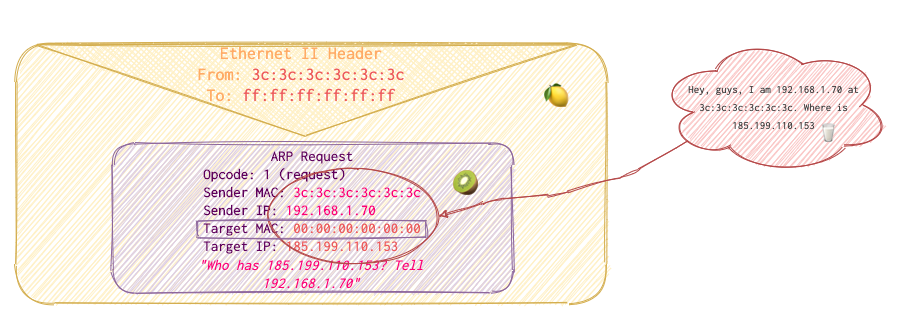
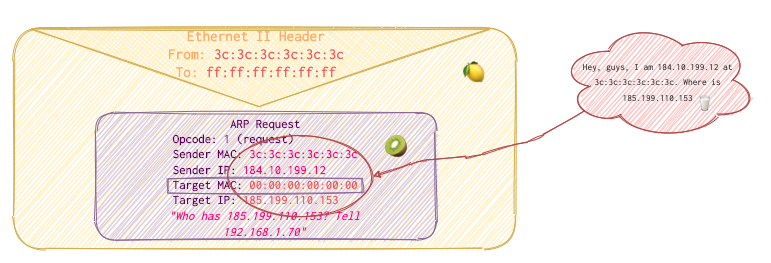
rebuilding site Mon Nov 30 15:33:39 MSK 2020

diff --git a/docs/articles/fundamentals/network/protocols/tcpip/index.html b/docs/articles/fundamentals/network/protocols/tcpip/index.html
@@ -165,9 +165,13 @@
   <aside>
    <nav id="TableOfContents">
   <ul>
+    <li><a href="#prerequisites">Prerequisites</a></li>
+    <li><a href="#analogy">Analogy</a></li>
+    <li><a href="#getting-technical">Getting Technical</a></li>
     <li><a href="#network-architecture">Network Architecture</a></li>
     <li><a href="#step-1-get-the-ip-address">Step 1. Get the IP address</a></li>
     <li><a href="#step-2-get-the-mac-address">Step 2. Get the MAC address</a></li>
+    <li><a href="#references">References</a></li>
   </ul>
 </nav>
  </aside>
@@ -229,24 +233,37 @@
 
 
   <div class="content" itemprop="articleBody">
-    <p><em>This article is an overview of TCP/IP protocol stack. I will cover in detail what happens when a request to, say, <code>google.com</code> is sent in the browser.</em></p>
-<p>There is an OSI model. It&rsquo;s an empermal model. It&rsquo;s not a real thing, it&rsquo;s more like a blueprint for making real things. This model basically describes, what an empermal packet sent over network should approximately look like. It&rsquo;s called a packed because it looks very much like one: your message wrapped in an envelope, wrapped in some paper, sent via post office and deliver to the door. Comparing this process with mail services is not uncommon, but I will use another example. It&rsquo;s unreal, but it better describes the process.</p>
-<p>MAC - person&rsquo;s full name (because it&rsquo;s almoust unique to device)</p>
-<p>IP + TCP/UDP - person&rsquo;s street and house</p>
-<p>Application data - message itself.</p>
-<p>There is this far far away world. It this world there are lots of cities, but we are going to talk about very peculiar one. It is so peculiar because of the way they are messaging. They have something that looks very much like a Russian <a href="https://en.wikipedia.org/wiki/Matryoshka_doll">matryoshka doll</a>.</p>
+    <p><em>This article is an overview of TCP/IP protocol stack. I will cover in detail what happens when a request to, say, <code>bakerst221b.com</code> is sent in the browser.</em></p>
+<p>There is this famous OSI model&hellip; If you have ever scratched the surface of network security, you must have heard of it. It&rsquo;s an empermal model (like spherical eggs 🥚 in the vacuum - a joke from Big Bang Theory). It&rsquo;s not a real thing, it&rsquo;s more like a blueprint 🗺 for making real things. This model basically describes, what an empermal packet sent over network should approximately look like. It&rsquo;s called a packet 📦 because it looks very much like one: your message wrapped in an envelope, wrapped in some paper, put into a box and sent via post office and finally delivered to the door. Comparing this process with mail services is not uncommon, but I will use another example. It&rsquo;s unreal, but it better describes the process.</p>
+<h2 id="prerequisites">Prerequisites</h2>
+<p>To get something somewhere we need some identifications, each level of identification narrowing the search. In case of our human world, if a shop needs to deliver, say, a book 📖 to a person, he gets his address (street number). But there are many people living on this street 🏘 . For further narrowing the search the shop needs a house number. But again, there are still many people living in the same building 🏡, how to get the parcel to the right one? Apparently, we need a flat number and the person&rsquo;s name 💁♀. The same happens when you sending a packet over the computer network. Everytime a PC (laptop or a mobile device) needs to talk to other computers (laptops, mobiles, PCs, servers) it sends a packet using a network 🕸 of other computers 🖥🖥🖥🖥 .</p>
+<p>To make the further illustration clearer, here are the mail service vs computer network equivalents:</p>
+<ul>
+<li>Person&rsquo;s full name is MAC address (because it&rsquo;s almoust unique to device)</li>
+<li>Person&rsquo;s street and house is equivalent to IP address and a corresponding port TCP/UDP (IP + port is usually called a socket)</li>
+<li>Message itself is a mere application data.</li>
+</ul>
+<h2 id="analogy">Analogy</h2>
+<p>There is this far far away world. It this world there are lots of cities, but we are going to talk about very peculiar one - Revencole. It is so peculiar because of the way they are messaging. They have something that looks very much like a Russian <a href="https://en.wikipedia.org/wiki/Matryoshka_doll">matryoshka doll</a> for exchanging messages. Here&rsquo;s a matryoshka:</p>
 <p><img src="images/nesting-dolls_1fa86.png" alt="nesting-dolls_1fa86"></p>
 <p>As you may already know, it&rsquo;s a hollow doll, which has another doll inside, also hollow and which also &hellip; well, you get the idea. That&rsquo;s why they are called - nested dolls. Now imagine that in this city people actually talk using this dolls.</p>
-<p>They first write a message on a paper, they they fold it a couple of times and put into the smallest hollow doll. They write the lucky receiver&rsquo;s name on it and put it inside another doll. They write a flat number on it and then put it into another doll. On that next doll they write and address (Street and house) of the lucky receiver. Finally, they put inside the biggest doll and give it to a postman on a bike 🚴♂ .</p>
-<p>A 🚴♂ postman on a bike doesn&rsquo;t do anything at all apart from delievering it to some points. He only knows all the routes of the city, but he doesn&rsquo;t even know what he&rsquo;s delivering. Upon bringing this matryoshka doll to the post office he is assigned to, he opens the outer matryoshka and handes the neseted ones to the postoffice clerk 👨💼.</p>
-<p>The postoffice clerk&rsquo;s job is far more difficult. He reads the address on the matryoshka he has and tells the 🚴♂ postman on a bike which street and which house he is supposed to go to.  They both then sit on the same bike and ride to the specified house. They are met by a housekeeper 👵 there who gets the next matryoshka from the postoffice clerk&rsquo;s 👨💼 one and reads the name of the person to get this to. If the person is known to live in this house, she accepts the matryoshka and delivers it to the lucky receiver. This lucky receiver now opens the last matryoshka and reads his message.</p>
-<p>A very peculiar algorithm but it works&hellip; That&rsquo;s approximately how this model works. The 🚴♂ postman on a bike is a physical layer (cables and radio waves) whose job is not get everyone to the correct places.  The postoffice clerk 👨💼 is the network layer and transport layer combined. He reads the address of the house to ride to. The housekeeper 👵 is the data link layer, whose job is to identify the correct person and drop the parcel if no such person lives in the house she owns.</p>
-<p><em>#todo divide network and transport layer in the mataphor</em>.</p>
-<p><em>#todo. receiver can talk different languages or use special letter. Besides, may be the sender and receiver agreed on some structure of their letters.</em></p>
-<p>So, now get more technical. Phisical layer and wires and stuff are two broad a topic to be discussed here. So, let&rsquo;s just say, we have two computers connected already and these computers communicate. The first one is your PC you are currently using (or a mobile device). And the second one is the server that hosts my website.</p>
-<p>When you type <code>bakerst221b.com</code> in the address bar of your browser, your PC is doing a tremedous work behind the curtains. Let&rsquo;s see, what this little workaholic elf is doing there.</p>
-<p>He needs to pack your message into a set of nested envelopes (matryoshkas in the example above). What&rsquo;s the message? Since we are talking about websites, the most common wrapper would be the HTTP wrapper. What&rsquo;s an HTTP?</p>
-<p><em>#todo Explain what&rsquo;s a protocol. Here also about binary being read by different applications</em></p>
+<p>Mark is an accountant at a big company in Revencole. He is a serious person and he needs to fill out different forms and tables and send them to different agencies and goverment bodies (like a IRS to pay taxes or something like that). Each agency or government body has it&rsquo;s own set of standarts for their documents. For example, Revencole&rsquo;s IRS requires all documents about taxes to start with <em>&ldquo;This is for IRS with love 💌 &ldquo;</em> (they are weird) and the total amount of taxes paid in the end of the document.</p>
+<p><img src="images/irs-report.png" alt="irs-report"></p>
+<p>Also, Mark&rsquo;s ordering pencils in one company in the city, and this shop requires all orders to be filled in the form of a table with a <em>&ldquo;I need a pencil&rdquo;</em> at the top and a table of goods following it in a form of a table.</p>
+<p><img src="images/pen-shop.png" alt="pen-shop"></p>
+<p>When IRS receives something that doesn&rsquo;t start with <em>&ldquo;This is for IRS with love 💌 &ldquo;</em>, they don&rsquo;t continue reading and just throw it away 🗑 informing Mark&rsquo;s or any other company that the document was invalid. If it&rsquo;s valid, they simply take the last digit in the form and take is a total. So, if Mark confuses Tax Code and Total fields, he&rsquo;ll be in trouble.</p>
+<p>So, one gloomy evening Mark is preparing a tax report for IRS. He takes a paper with a blank form and writes  <em>&ldquo;This is for IRS with love 💌 &ldquo;</em> at the top.</p>
+<p><img src="images/irs-report-blank.png" alt="irs-report-blank"></p>
+<p>Then Mark fills out all the blanks in the form according to his calculations. He then folds it twice and puts the report in an envelope ✉. On this envelope he writes the name of an employee at IRS who usually handles his company - Thomas.</p>
+<p>The he puts this into a small box 📦  and writes the house number on it (<code>23</code>). Then he puts it in a bigger box 📦 and puts a house number on it (<code>Good St.</code>).</p>
+<p>Finally he puts the bigger box 📦 into a bag 👝 and orders a postman on a bike 🚴♂ to take it to IRS.</p>
+<p>A 🚴♂ postman on a bike takes the parcel and gets to the post office. He gives the bag 👝 to the postoffice clerk 👨💼 James. James opens the bag and gets the bigger box 📦. He reads the Street number and gives the Box to another clerk Jessie 👩💼. Jessie opens it up and reads the house number written on the smaller box. Each of them then gives the postman on a bike this information and he departures.</p>
+<p>He gets to the street <code>Good St.</code> specified by James and find a house number <code>23</code>. He knocks at the door and meets the landlady 👵 of this house. He gives her the smaller box. She opens it up and reads the name on the envelope ✉.  If she knows the complany or the person in question, she accepts it and delivers it to the recipient. IRS worker get&rsquo;s the envolope, unwraps it and reads the report. He checks it for presence of <em>&ldquo;This is for IRS with love 💌&rdquo;</em> and if it&rsquo;s there, takes the last number in the report and write it down into his IRS tax book.</p>
+<p>A very peculiar algorithm but it works&hellip; That&rsquo;s approximately how this model works. The 🚴♂ postman on a bike is a physical layer (cables and radio waves) whose job is to provide the means of delivery. The postoffice clerk 👨💼 James and Jessie are to read the street name and house number and tell it to the  🚴♂ postman on a bike (he can&rsquo;t read). The landlady 👵 is the data link layer, whose job is to identify the correct person inside the building 🏠 and drop the parcel 📦 if no such person or company resides in the house that she owns.</p>
+<p>Let&rsquo;s now assume, that Mark has specified the correct street name and the employee&rsquo;s name correctly, but made an error in house number <code>26</code> instead of <code>23</code>. So, the 🚴♂ postman on a bike would ride to the same street but knocked at the wrong door. <code>26</code>'s landlord 👴 might have Thomas in the building, so he doesn&rsquo;t recognize the mistake. He would take the emvelope to to Thomas in <code>26</code> building. Let&rsquo;s assume this another Thomas is from the pencil company. He opens up the envelope and reads the message. But he doesn&rsquo;t see &ldquo;I need a pencil&rdquo; on the top, so he thinks to himself &ldquo;what the hell&rdquo; and throws it away into a 🗑 bin.</p>
+<h2 id="getting-technical">Getting Technical</h2>
+<p>So, now get more technical. Phisical layer and wires and stuff are two broad a topic to be discussed here. I am plannig to write an article about the 🚴♂ postman on a bike as well but later (keep checking this section for Physical Layer article).</p>
+<p>When you type <code>bakerst221b.com</code> in the address bar of your browser, your PC is doing a tremedous work behind the curtains. Let&rsquo;s see, what this little workaholic elf is doing there. First, it 💻 needs to pack your message into a set of nested envelopes (matryoshkas or boxed or bags). What&rsquo;s the message then? Since we are talking about websites, the most common wrapper would be the HTTP wrapper. What&rsquo;s an HTTP? Remember the specific forms like IRS requiring the <em>&ldquo;This is for IRS with love 💌&rdquo;</em> at the top and the total number in the bottom? And remember the pencil company insisting on having a <em>&ldquo;I need a pencil&rdquo;</em> at the top with a table following it? So, basically this is what a protocol is. It is merely a standart, some form or <strong>set of rules</strong> which all the requests should adhere to. IRS uses one protocol while the pencil company another. Whenever Mark is sending something to IRS, he uses IRS&rsquo;s set of rules for composing a message, and whenever he orders pencils, he follows the pencil company&rsquo;s instructions. Otherwise they simply won&rsquo;t read. HTTP is the set of rules that web servers make the clients to follow if this client wants to get a webpage in return. Here is how it looks like when requesting <code>bakerst221b.com</code>:</p>
 <div class="highlight"><pre class="chroma"><code class="language-python" data-lang="python"><span class="n">GET</span> <span class="o">/</span> <span class="n">HTTP</span><span class="o">/</span><span class="mf">1.1</span>
 <span class="n">Host</span><span class="p">:</span> <span class="n">bakerst221b</span><span class="o">.</span><span class="n">com</span>
 <span class="n">Connection</span><span class="p">:</span> <span class="n">close</span>
@@ -259,21 +276,25 @@
 <span class="n">Sec</span><span class="o">-</span><span class="n">Fetch</span><span class="o">-</span><span class="n">Dest</span><span class="p">:</span> <span class="n">document</span>
 <span class="n">Accept</span><span class="o">-</span><span class="n">Encoding</span><span class="p">:</span> <span class="n">gzip</span><span class="p">,</span> <span class="n">deflate</span>
 <span class="n">Accept</span><span class="o">-</span><span class="n">Language</span><span class="p">:</span> <span class="n">en</span><span class="o">-</span><span class="n">US</span><span class="p">,</span><span class="n">en</span><span class="p">;</span><span class="n">q</span><span class="o">=</span><span class="mf">0.9</span><span class="p">,</span><span class="n">ru</span><span class="p">;</span><span class="n">q</span><span class="o">=</span><span class="mf">0.8</span><span class="p">,</span><span class="n">es</span><span class="p">;</span><span class="n">q</span><span class="o">=</span><span class="mf">0.7</span>
-</code></pre></div><h2 id="network-architecture">Network Architecture</h2>
-<p>There is a nice family of Jack and Mary. They like pears 🍐 so let&rsquo;s mark their realm with one. The like this website and use it pretty often (grapes realm 🍇). But since these realms are quite far from each other, they can only communicate over some intermediary networks (network A ruled by <code>Router A</code> and network B ruled by <code>Router B</code>).</p>
-<p>Let&rsquo;s just asume that our PC with IP <code>192.168.1.70</code> and the website with IP <code>185.199.110.153</code> are on two different VLAN&rsquo;s that are connected via three routers and let&rsquo;s also assume our PC had to acquire MAC itseld. What would happen? Here is our current network architecture:</p>
+</code></pre></div><p>Well, basically that the message that we are going to wrap in an envelope ✉, smaller box 📦, a bigger one 📦 and a bag 👝. Let&rsquo;s use another example, closer to the ground.</p>
+<h2 id="network-architecture">Network Architecture</h2>
+<p>There is a nice family of Jack and Mary. They like pears 🍐 so let&rsquo;s mark their realm with one. They both like this website and use it pretty often (grapes realm 🍇). But since these realms are quite far from each other, they can only communicate over some intermediary networks (network A ruled by <code>Router A</code> and network B ruled by <code>Router B</code>).</p>
+<p>Let&rsquo;s just asume that our PC with IP <code>192.168.1.70</code> (local address) and the website with IP <code>185.199.110.153</code> (public address) are on two different VLAN&rsquo;s that are connected via three routers. What will happen if Mary goes to <code>bakerst221b.com</code>?</p>
+<p>Let&rsquo;s examine our current network architecture first:</p>
 <p><img src="images/network-architecture.png" alt="network-architecture"></p>
-<p>Green arrows and green names with IP addresses (🍐 realm) is Mary&rsquo;s and Jack&rsquo;s home network. You can see lots of devices connected. Mary wants to connect to <code>bakerst221b.com</code>  using her laptop. Her requests will go to the <code>Jack's and Mary's Router</code>, then to the <code>Router A</code>, then <code>Router B</code> and get to <code>Bakerst221b.com's Router</code>. The latter will then forward the request to <code>bakerst221b.com</code>. So the route is 🍐 -&gt; 🍊 -&gt; 🍇. The response will go the same route but reversed (🍇 -&gt; 🍊 -&gt; 🍐).</p>
+<p>Green arrows and green names with IP addresses (🍐 realm) is Mary&rsquo;s and Jack&rsquo;s home network. Only Jack&rsquo;s and Mary&rsquo;s Router knows their internal IP addresses. Whenever any device wants to talk to the outside world, it uses on singe IP - the routers one (orange <code>184.10.199.12</code>). He is like a ambassador for them, representing them in the public network.</p>
+<p>Orange 🍊 realm contains two Routers A and B. They are representing someone else. Who exactly - it is irrelevant for this example. For Jack and Mary they are simply  intermediary nodes (almost like a road to the  🚴♂ postman on a bike).</p>
+<p>The grapes 🍇 realm is where web server with <code>bakerst221b.com</code> resides with its own ambassador Router who talks from its behalf. Notice that I&rsquo;ve not put any local addresses (local addresses known only to the router and devices connected to it usually begin with <code>192.168.</code>) for <code>bakerst221b.com</code> and it&rsquo;s Router. It&rsquo;s because from Mary&rsquo;s or Jack&rsquo;s point of view there is not wat to know it. They only see and care about the public IPs.</p>
+<p>When Mary connects to <code>bakerst221b.com</code>  using her laptop, her request goes to the <code>Jack's and Mary's Router</code>, then to the <code>Router A</code>, then <code>Router B</code> and get to <code>Bakerst221b.com's Router</code>. The latter will then forward the request to <code>bakerst221b.com</code>. So the route is 🍐 -&gt; 🍊 -&gt; 🍇. The response will go the same route but reversed (🍇 -&gt; 🍊 -&gt; 🍐).</p>
 <p>Let&rsquo;s see this work in more details using an example. One sunny day Mary decides to visit <code>bakerst221b.com</code> and check it for updates. She opens her laptop and opens a web browser. Then she types in the address bar <code>https://bakerst221b.com</code> and hits <code>Enter</code>. Her laptop is not panicking. It knows what to do. It needs to pack the following parcel:</p>
 <p><img src="images/http-request.png" alt="http-request"></p>
 <p><code>XXX</code> in red stand for some data that the PC 🖥 doesn&rsquo;t know at the moment:</p>
 <ul>
 <li><code>bakerst221b.com</code>'s IP address</li>
 <li><code>bakerst221b.com</code>'s port number</li>
-<li>Its own port number that it will use to send the request (it was not assigned yet)</li>
 <li><code>bakerst221b.com</code>'s MAC address</li>
 </ul>
-<p>It sends two separate request to fill in the fields in question.</p>
+<p>It sends several separate request to fill in the fields in question.</p>
 <h2 id="step-1-get-the-ip-address">Step 1. Get the IP address</h2>
 <p>Using DNS protocol her PC asks the following:</p>
 <blockquote>
@@ -285,39 +306,61 @@
 <p>&ndash; Her internet provider has it.</p>
 <p>&ndash; Does Internet Provider&rsquo;s DNS server has all the domain names?</p>
 <p>&ndash; Of course not. It would blow up. It asks its fellow DNS buddies until the right one is found.</p>
-<p>As it turns out,  Mary&rsquo;s laptop first tries doing this over IPv6 (red square) and fails. Two requests: for A and AAAA records (see <a href="#">DNS article</a>) to get both IPv4 and IPv6 addresses for <code>bakerst221b.com</code>. For both requests itgot a <code>Refused</code> response - I don&rsquo;t understand the whole internals of this, but guess IPv6 connection is not supported for my hosting server 💡 .</p>
+<blockquote>
+<p>Unnecessary info I&rsquo;ve found out while writing this article. It turns out,  Mary&rsquo;s laptop first tries doing this over IPv6 (red square) and fails. Two requests: for A and AAAA records (see <a href="#">DNS article</a>) to get both IPv4 and IPv6 addresses for <code>bakerst221b.com</code>. For both requests itgot a <code>Refused</code> response - I don&rsquo;t understand the whole internals of this, but guess IPv6 connection is not supported for my hosting server 💡 .</p>
+</blockquote>
 <p>Then it tries to ask over IPv4 for the same both records (A and AAAA) and gets the addresses it needed (purple square):</p>
 <p>![Screenshot 2020-11-29 at 6.27.07 PM](images/Screenshot 2020-11-29 at 6.27.07 PM.png)</p>
-<p>Since there are no IPv6 addresses assigned, 🖥 PC only needs the response for A record. Actually, there are 4 IPv4 addresses that <code>bakerst221b.com</code> uses. Ok, not that 🖥 gets its IPs, he can finally sign his first envelope (the IP header). But there are also transport and datalink layers&hellip;. His parcel now looks like this (see the outer envelope ✉  <code>To</code> field filled in):</p>
+<p>Since there are no IPv6 addresses assigned, 🖥 PC only needs the response for A record.  Ok, not that 🖥 gets its IPs, it can finally sign his first envelope, the IP header (see the outer envelope ✉  <code>To</code> field filled in):</p>
 <p><img src="images/http-request2.png" alt="http-request2"></p>
+<p>But there are also transport and datalink layers&hellip;. His parcel now looks like this :</p>
 <h2 id="step-2-get-the-mac-address">Step 2. Get the MAC address</h2>
-<p>As for Data Link layer, it&rsquo;s a tricky one. The 🖥 itself doesn&rsquo;t do that dirty job. It just puts its router&rsquo;s MAC address, knowing that the router will know what to do. Let see, what that little chap is doing. To determine MAC address (to sign the second envelope with MAC addresses) the router sends an ARP request. The below is ARP request</p>
-<p>![Screenshot 2020-11-29 at 7.17.15 PM](images/Screenshot 2020-11-29 at 7.17.15 PM.png)</p>
+<p>Data Link layer, is tricky one. The 🖥 itself doesn&rsquo;t do that dirty job. It just puts its router&rsquo;s MAC address, knowing that the router will know what to do. How does it know the Router&rsquo;s MAC? well, it asks. It knows that the router sits at <code>192.168.1.1</code>. So, it sends an ARP request (just like the ones we will see below in a minute), asking for <code>192.168.1.1</code>'s MAC. But this won&rsquo;t be as complex as the example below. Since these devices are on the same network, there only going to be one ARP request and a single response from the J&amp;M Router.</p>
+<p>Let see, what that little chap (J&amp;M Router) is doing. How does it get the MAC address of <code>bakerst221b.com</code>? To determine MAC address (to help Mary&rsquo;s laptop 💻 sign the second envelope with MAC addresses) the router sends an ARP request to the network of his buddies (other representatives, Router A).</p>
+<ol>
+<li>J&amp;M Router puts <code>ff:ff:ff:ff:ff:ff</code> MAC address in the Enthernet header&rsquo;s <code>To</code> field (which means broadcast and therefor all Jack&rsquo;s and Mary&rsquo;s router&rsquo;s buddies are going to get this message) and its own in MAC <code>From</code> field (orange square). In the ARP request it puts the newly discovered IP of <code>bakerst221b.com</code> as <code>Target IP</code> and its own MAC and IP as a <code>Sender MAC</code> and <code>Sender IP</code> (see the scheme below, purple square):</li>
+</ol>
 <p><img src="images/arp-request.png" alt="arp-request"></p>
-<p>and response examples:</p>
+<ol start="2">
+<li>
+<p>Router A get&rsquo;s the ARP request from Jack and Mary&rsquo;s Router. It reads the request, reads the <code>Target IP</code>, checks its records and realized that it doesn&rsquo;t know the guy. That&rsquo;s why it asks his fellow Router B. In the Ethernet II header it puts its own MAC address in <code>From</code> and <code>ff:ff:ff:ff:ff:ff</code> in <code>To</code> fields (orange square). It leaves the ARP request itself untouched (purple square). So, <code>Target MAC</code> remains untouched. ❓</p>
+</li>
+<li>
+<p>Router B get&rsquo;s the ARP request from Router A. It reads the ARP request, reads the  <code>Target IP</code>, checks its records and realized that it doesn&rsquo;t know the guy. That&rsquo;s why it asks his fellow <code>Bakerst221b</code>'s Router. In the Ethernet II header it puts its own MAC address in <code>From</code> and <code>ff:ff:ff:ff:ff:ff</code> in <code>To</code> fields (orange square). It leaves the ARP request itself untouched (purple square). So, <code>Target MAC</code> remains untouched again. ❓💡 <em>May be the Sender&rsquo;s MAC is changing - don&rsquo;t know yet.</em></p>
+</li>
+<li>
+<p><code>Bakerst221b</code>'s Router receives the request. It reads the ARP request, reads the  <code>Target IP</code>, checks its records and realized that it&rsquo;s itself. So, in its response it switches <code>Source</code> and <code>Target</code> fields&rsquo; values and puts its own MAC in <code>Source MAC</code> field. It then sends the packet to Router B. So now it would look something like this:</p>
+<p><img src="images/arp-response-1.png" alt="arp-response-1"></p>
+</li>
+<li>
+<p>Router B just relays the answer, substituting <code>From</code> to its MAC address and <code>To</code> to the Router&rsquo;s A MAC in Ethernet II (Data link layer).</p>
+<p><img src="images/arp-response-2.png" alt="arp-response-2"></p>
+</li>
+<li>
+<p>Router A receives the package and relays it to Jack&rsquo;s and Mary&rsquo;s router, substituting <code>From</code> to its MAC address and <code>To</code> to the J&amp;M Router&rsquo;s MAC in Ethernet II (Data link layer).</p>
+</li>
+</ol>
+<p><img src="images/arp-response-3.png" alt="arp-response-3"></p>
+<p>Here are ARP request and response intercepted in real traffic:</p>
+<p>![Screenshot 2020-11-29 at 7.17.15 PM](images/Screenshot 2020-11-29 at 7.17.15 PM.png)</p>
 <p>![Screenshot 2020-11-29 at 7.17.22 PM](images/Screenshot 2020-11-29 at 7.17.22 PM.png)</p>
-<p><img src="images/arp-response.png" alt="arp-response"></p>
-<p>ARP in more detail can be read about <a href="#">here</a>. The main idea is that the device is asking <em>&ldquo;Who has 185.199.110.153? Tell 192.168.1.70&rdquo;</em>. As soon as it gets the answer, it fills the data link layer header with the correct MAC address. But in our current example we wouldn&rsquo;t see this request, since the job is done behind the router&rsquo;s curtains. Please note, that ARP is only packed into data link (Ethernet) envelope 📩 , not subsequent wrappings into IP and TCP envelopes since we are not actually sending any data and don&rsquo;t need IP and TCP envelopes for that. Our postoffice clerk 1 and postoffice clerk 2 are both having a rest 🌴 .</p>
-<p>PC already knows the destination IP that he acquired with the help of DNS request: <code>185.199.110.153</code>. It also knows its own MAC and IP (obviously). The only thing missing is the <code>bakerst221b.com</code> MAC address. ARP is how it gets this piece of the puzzle.</p>
-<p>Ethernet (Data Link layer) is the only envelope it will use. Since <code>Destination Address</code> is <code>&quot;FF:FF:FF:FF:FF:FF&quot;</code> everyone in the same broadcast network will get the message, including</p>
-<div class="highlight"><pre class="chroma"><code class="language-json" data-lang="json"><span class="err">Ethernet</span> <span class="err">(Mac</span> <span class="err">Header):</span> <span class="p">{</span>
-  <span class="err">Destination</span> <span class="err">Address:</span> <span class="nt">&#34;FF:FF:FF:FF:FF:FF&#34;</span><span class="p">,</span>
-  <span class="err">Source</span> <span class="err">Address:</span> <span class="nt">&#34;4c:8d:79:eb:3f:30&#34;</span><span class="p">,</span>
-  <span class="err">Type:</span> <span class="err">08-06</span> <span class="err">ARP</span>
-<span class="p">}</span>
-<span class="err">ARP</span> <span class="err">Request:</span> <span class="p">{</span>
-  <span class="err">Hardware</span> <span class="err">Type:</span> <span class="err">1</span> <span class="err">Ethernet</span> <span class="err">[10Mb],</span>
-	<span class="err">Protocol</span> <span class="err">Type:</span> <span class="err">08-00</span> <span class="err">DoD</span> <span class="err">IP,</span>
-	<span class="err">Length</span> <span class="err">of</span> <span class="err">Hardware</span> <span class="err">Address:</span> <span class="err">6,</span>
-	<span class="err">Length</span> <span class="err">of</span> <span class="err">Protocol</span> <span class="err">Address:</span> <span class="err">4,</span>
-	<span class="err">Operation</span> <span class="err">code:</span> <span class="err">1</span> <span class="err">(Request),</span>
-	<span class="err">Sender&#39;s</span> <span class="err">Hardware</span> <span class="err">Address:</span> <span class="nt">&#34;4c:8d:79:eb:3f:30&#34;</span><span class="p">,</span>
-	<span class="err">Sender&#39;s</span> <span class="err">IP</span> <span class="err">Address:</span> <span class="nt">&#34;192.168.1.70&#34;</span><span class="p">,</span>
-	<span class="err">Target&#39;s</span> <span class="err">Hardware</span> <span class="err">Address:</span> <span class="nt">&#34;00:00:00:00:00:00&#34;</span><span class="p">,</span>
-	<span class="err">Target&#39;s</span> <span class="err">IP</span> <span class="err">Address:</span> <span class="nt">&#34;185.199.110.153&#34;</span>
-	<span class="err">Frame</span> <span class="err">padding</span><span class="p">:</span> <span class="mi">18</span> <span class="err">bytes</span>
-<span class="p">}</span>
-</code></pre></div><p>Now the port, how does it get the port to connect to? For more details see the article about TCP/UDP <a href="#">here</a>.</p>
+<p>Now, J&amp;M saves the data for some time for future requests. The main idea is that the device is asking <em>&ldquo;Who has 185.199.110.153? Tell 184.10.199.12&rdquo;</em> recursively thorogh a network of interconnected network devices. As soon as it gets the answer, it fills the data link layer header with the correct MAC address.  Please note, that ARP is only packed into data link (Ethernet) envelope 📩 , not subsequent wrappings into IP and TCP envelopes since we are not actually sending any data and don&rsquo;t need IP and TCP envelopes for that. Our postoffice clerk 1 and postoffice clerk 2 are both having a rest 🌴 .</p>
+<p>So, Mary&rsquo;s laptop already knows the destination IP that he acquired with the help of DNS request: <code>185.199.110.153</code>. It also knows its own MAC and IP (obviously).  Let&rsquo;s keep in mind mind that Mary&rsquo;s laptop doesn&rsquo;t talk to the outer world on its own. So, it puts its representative&rsquo;s MAC in Ethernet II header (<code>To</code> field) instead of <code>bakerst221b.com</code>'s MAC. For example, I&rsquo;ve requested a <code>sherlock.com</code> page and captured the request. The purple square is my router&rsquo;s MAC, and the green - my laptop&rsquo;s.</p>
+<p><img src="/Users/veronicazvereva/Desktop/ethernet-header.png" alt="ethernet-header"></p>
+<p>However, IP and port are of <code>sherlock.com</code>, of course. It also inserts its local IP as the <code>Source IP</code> in IP header (see the <code>Source Address</code> in the screenshot below, it&rsquo;s local since starts with <code>192.168.</code>) but you need a public one to talk to others.</p>
+<p><img src="images/ip-header.png" alt="ip-header"></p>
+<p>That&rsquo;s why when the router receives the package, it performs two importnant modifications.</p>
+<ul>
+<li>changes the <code>From</code> and <code>To</code> MAC addresses in Ethernet II header. <code>From</code> its own MAC and <code>To</code> Router&rsquo;s A MAC.</li>
+<li>Substitues <code>Source IP</code> in IP header with its own <strong>public</strong> IP. This is IP can be seen when you type <code>what's my ip</code> in google.com or go to your router&rsquo;s settings and look at the main page. It&rsquo;s the IP others see on the network.</li>
+</ul>
+<p>The J&amp;M Router also takes a note, that the machine with local address <code>192.168.1.70</code> send this request. It&rsquo;s needed, of course, to be able to deliever the reply to Mary&rsquo;s laptop 💻 later.</p>
+<p>So, now the request is going to look as follows:</p>
+<p><img src="images/mary-final-req.png" alt="mary-final-req"></p>
+<p>Now the port, how does it get the port to connect to? For more details see the article about TCP/UDP <a href="#">here</a>.</p>
+<h2 id="references">References</h2>
+<p><a href="http://www.firewall.cx/">firewall.cx</a></p>
+<p>Wireshark and Iris packet sniffers</p>
 
   </div>
 </article>

diff --git a/categories/general/index.html b/categories/general/index.html
@@ -295,7 +295,7 @@ otool -h [app_name] &gt; Mach header magic cputype cpusubtype caps filetype ncmd
   </li>
   </ul>
   <h2 class="title-summary"><a href="https://bakerst221b.com/docs/articles/fundamentals/network/protocols/tcpip/"> TCP/IP Stack</a></h2> 
-  <p><i>This article is an overview of TCP/IP protocol stack. I will cover in detail what happens when a request to, say, google.</i>
+  <p><i>This article is an overview of TCP/IP protocol stack. I will cover in detail what happens when a request to, say, bakerst221b.</i>
   <ul>
     <li>
       

diff --git a/types/article/index.html b/types/article/index.html
@@ -326,7 +326,7 @@ Data Breach is not the same as Security Breach.</i>
   </li>
   </ul>
   <h2 class="title-summary"><a href="https://bakerst221b.com/docs/articles/fundamentals/network/protocols/tcpip/"> TCP/IP Stack</a></h2> 
-  <p><i>This article is an overview of TCP/IP protocol stack. I will cover in detail what happens when a request to, say, google.</i>
+  <p><i>This article is an overview of TCP/IP protocol stack. I will cover in detail what happens when a request to, say, bakerst221b.</i>
   <ul>
     <li>
       

diff --git a/docs/articles/fundamentals/network/protocols/index.html b/docs/articles/fundamentals/network/protocols/index.html
@@ -198,7 +198,7 @@
 </li>
 </ul>
 <h2 class="title-summary"><a href="https://bakerst221b.com/docs/articles/fundamentals/network/protocols/tcpip/"> TCP/IP Stack</a></h2> 
-<p><i>This article is an overview of TCP/IP protocol stack. I will cover in detail what happens when a request to, say, google.</i>
+<p><i>This article is an overview of TCP/IP protocol stack. I will cover in detail what happens when a request to, say, bakerst221b.</i>
 <ul>
   <li>
     

diff --git a/tags/network/index.html b/tags/network/index.html
@@ -180,7 +180,7 @@
 </li>
 </ul>
 <h2 class="title-summary"><a href="https://bakerst221b.com/docs/articles/fundamentals/network/protocols/tcpip/"> TCP/IP Stack</a></h2> 
-<p><i>This article is an overview of TCP/IP protocol stack. I will cover in detail what happens when a request to, say, google.</i>
+<p><i>This article is an overview of TCP/IP protocol stack. I will cover in detail what happens when a request to, say, bakerst221b.</i>
 <ul>
   <li>
     

diff --git a/tags/osi/index.html b/tags/osi/index.html
@@ -180,7 +180,7 @@
 </li>
 </ul>
 <h2 class="title-summary"><a href="https://bakerst221b.com/docs/articles/fundamentals/network/protocols/tcpip/"> TCP/IP Stack</a></h2> 
-<p><i>This article is an overview of TCP/IP protocol stack. I will cover in detail what happens when a request to, say, google.</i>
+<p><i>This article is an overview of TCP/IP protocol stack. I will cover in detail what happens when a request to, say, bakerst221b.</i>
 <ul>
   <li>
     

diff --git a/tags/protocol/index.html b/tags/protocol/index.html
@@ -180,7 +180,7 @@
 </li>
 </ul>
 <h2 class="title-summary"><a href="https://bakerst221b.com/docs/articles/fundamentals/network/protocols/tcpip/"> TCP/IP Stack</a></h2> 
-<p><i>This article is an overview of TCP/IP protocol stack. I will cover in detail what happens when a request to, say, google.</i>
+<p><i>This article is an overview of TCP/IP protocol stack. I will cover in detail what happens when a request to, say, bakerst221b.</i>
 <ul>
   <li>
     
